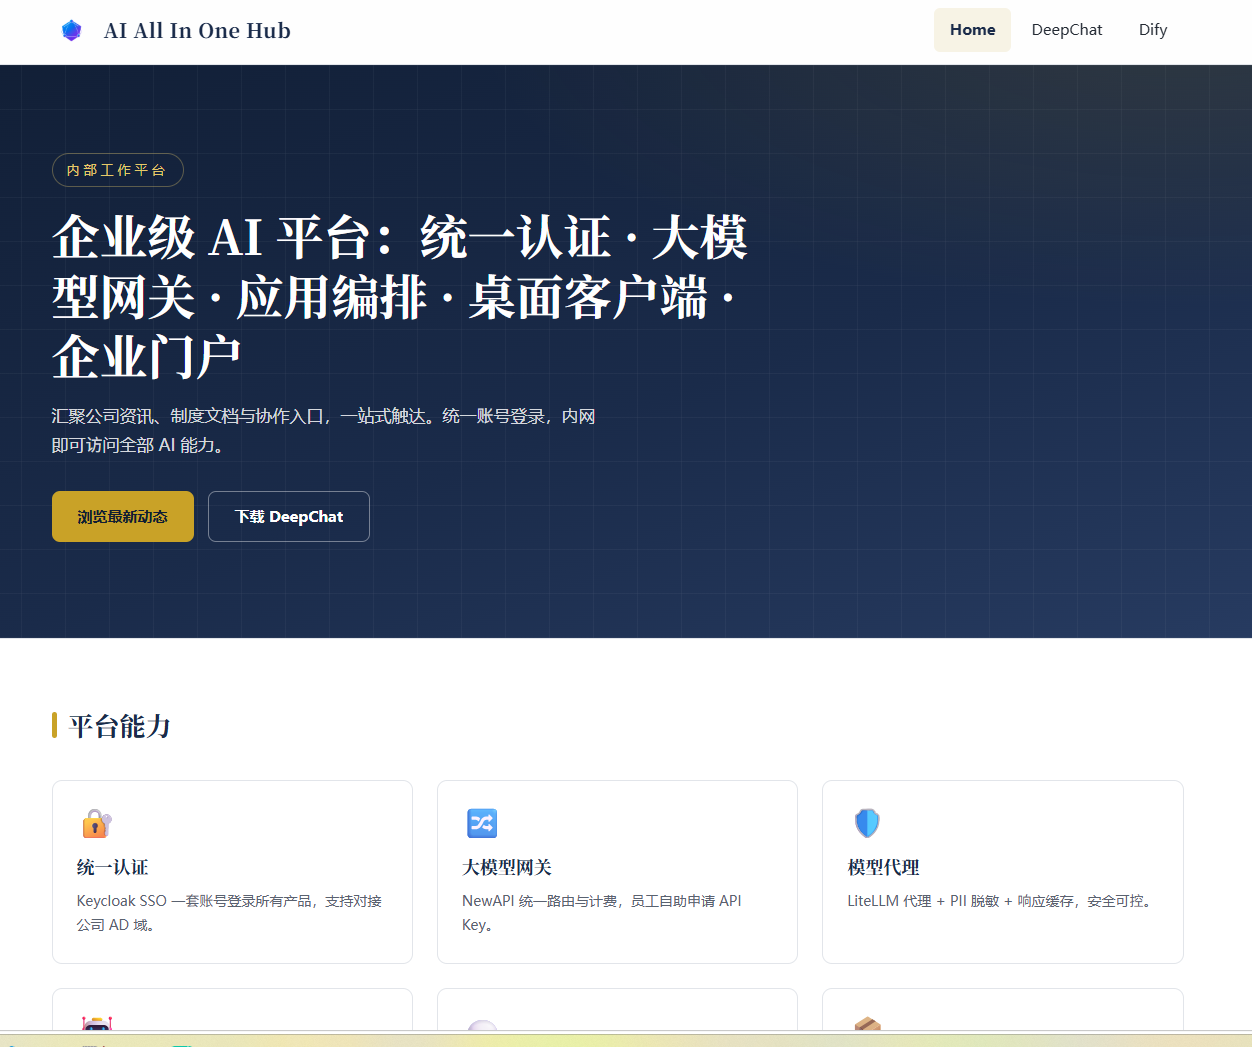
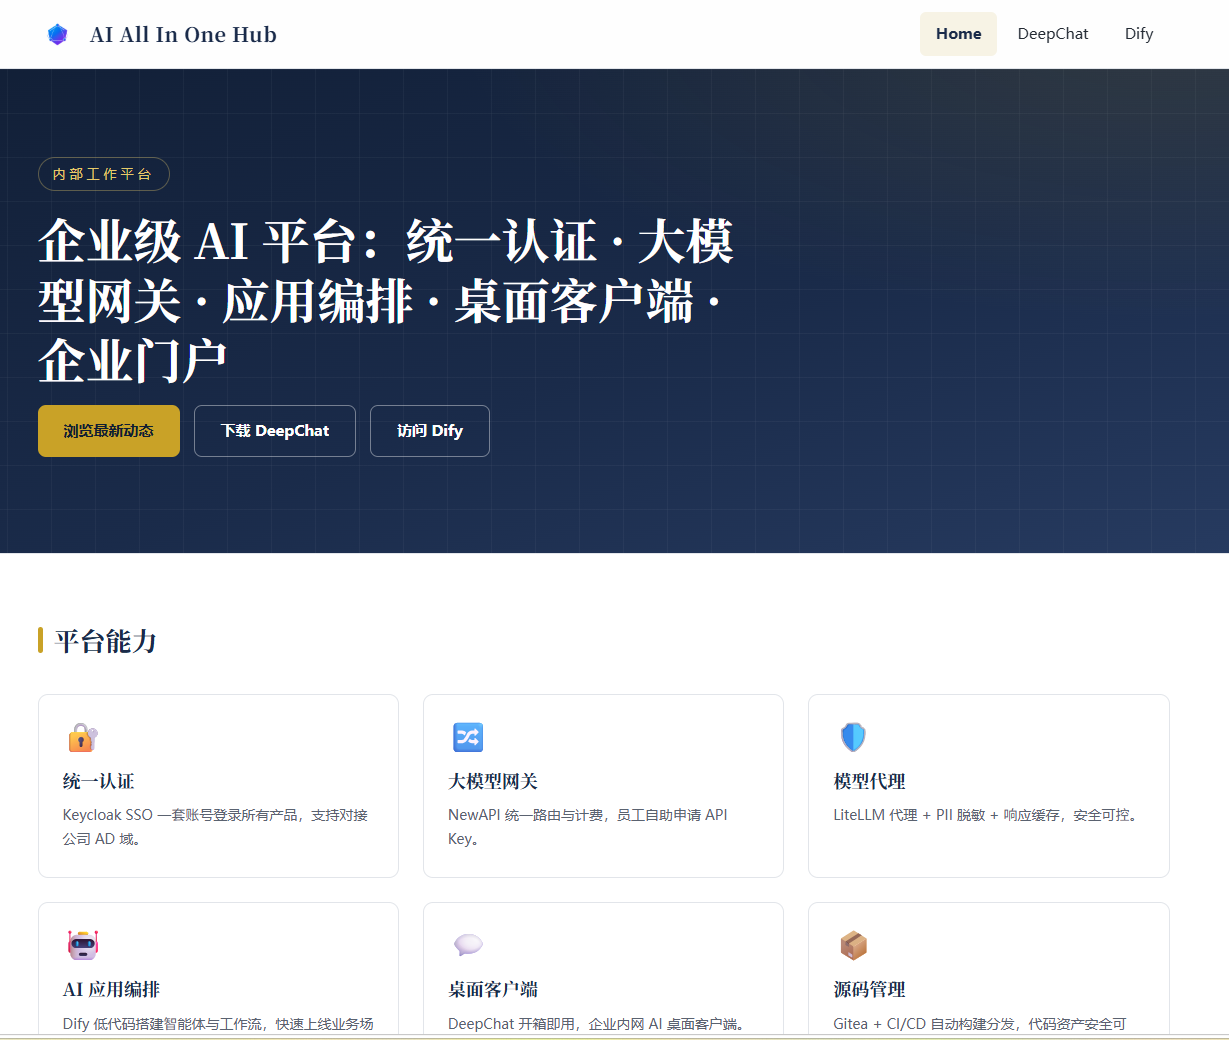
feat: v0.7 - Ghost portal theme v2 (news view toggle + pagination, DeepChat download hero), README clone URL, refreshed screenshot

diff --git a/windows/ghost-theme-corp-portal/assets/css/screen.css b/windows/ghost-theme-corp-portal/assets/css/screen.css
@@ -373,11 +373,109 @@ a:hover { color: var(--color-gold); }
 }
 
 /* ============================================================
+   文章工具栏（卡片/列表切换 + 分页）
+   ============================================================ */
+.posts-toolbar {
+    display: flex;
+    align-items: center;
+    gap: 16px;
+    flex-wrap: wrap;
+    margin-bottom: 22px;
+    padding-bottom: 14px;
+    border-bottom: 1px solid var(--color-line);
+}
+.posts-count { font-size: 13px; color: #7a8290; }
+.view-toggle {
+    display: inline-flex;
+    border: 1px solid var(--color-line);
+    border-radius: var(--radius-sm);
+    overflow: hidden;
+}
+.view-btn {
+    border: none;
+    background: transparent;
+    color: #5a6270;
+    padding: 7px 18px;
+    font-size: 13px;
+    cursor: pointer;
+    transition: background var(--transition), color var(--transition);
+}
+.view-btn.active {
+    background: var(--color-navy);
+    color: #fff;
+}
+.page-size {
+    margin-left: auto;
+    display: inline-flex;
+    align-items: center;
+    gap: 6px;
+    font-size: 13px;
+    color: #5a6270;
+}
+.page-size select {
+    background: var(--color-surface);
+    border: 1px solid var(--color-line);
+    border-radius: var(--radius-sm);
+    color: var(--color-navy);
+    padding: 5px 8px;
+    font-size: 13px;
+    cursor: pointer;
+}
+
+/* 列表模式 */
+.post-grid.list { display: block; }
+.post-grid.list .post-card {
+    margin-bottom: 14px;
+    box-shadow: none;
+}
+.post-grid.list .post-card:hover {
+    transform: none;
+    box-shadow: var(--shadow-sm);
+}
+.post-grid.list .post-card-link {
+    display: flex;
+    align-items: center;
+    gap: 20px;
+}
+.post-grid.list .post-card-media { display: none; }
+.post-grid.list .post-card-body { padding: 16px 22px; flex: 1; }
+.post-grid.list .post-card-title { font-size: 17px; margin-bottom: 4px; }
+.post-grid.list .post-card-excerpt { -webkit-line-clamp: 1; }
+
+/* 分页控件 */
+.posts-pagination {
+    display: flex;
+    align-items: center;
+    justify-content: center;
+    gap: 16px;
+    margin-top: 26px;
+}
+.pg-btn {
+    border: 1px solid var(--color-line);
+    background: var(--color-surface);
+    color: var(--color-navy);
+    padding: 8px 20px;
+    border-radius: var(--radius-sm);
+    font-size: 13px;
+    cursor: pointer;
+    transition: background var(--transition), color var(--transition), opacity var(--transition);
+}
+.pg-btn:disabled { opacity: .4; cursor: not-allowed; }
+.pg-btn:not(:disabled):hover { background: var(--color-navy); color: #fff; }
+.pg-info { font-size: 13px; color: #5a6270; }
+
+/* ============================================================
    文章详情页
    ============================================================ */
 .post { padding: 48px 0 24px; }
 
 .post-container { max-width: 900px; }
+
+/* DeepChat 下载页：与首页同宽 + 深色 hero 化 */
+.page-deepchat .post-container { max-width: var(--container); }
+.page-deepchat .post-header { display: none; }
+.page-deepchat .dc-hero { display: none !important; }
+.hero--page { padding: 72px 0 64px; }
 
 .post-header { margin-bottom: 32px; }
 

diff --git a/i18n/README.ja.md b/i18n/README.ja.md
@@ -86,7 +86,7 @@ OpenClaw / Microsoft Scout / WorkBuddy（または同等品）のいずれかを
 
 **4. プロジェクトをローカルにクローンまたはダウンロードする**
 ```bash
-git clone <リポジトリのURL> AIAllInOne
+git clone https://github.com/sdlyxianchao/AIAllInOne AIAllInOne
 # またはアーカイブをダウンロードして任意のローカルディレクトリに展開
 ```
 

diff --git a/i18n/README.zh-TW.md b/i18n/README.zh-TW.md
@@ -87,7 +87,7 @@ Harness 類工具（OpenClaw、Microsoft Scout、WorkBuddy 等）能讀取本專
 
 **4. Git clone 或下載本專案到本機**
 ```bash
-git clone <你的倉庫位址> AIAllInOne
+git clone https://github.com/sdlyxianchao/AIAllInOne AIAllInOne
 # 或下載壓縮包後解壓到本機任意目錄
 ```
 

diff --git a/i18n/README.zh.md b/i18n/README.zh.md
@@ -89,7 +89,7 @@ Harness 类工具（OpenClaw、Microsoft Scout、WorkBuddy 等）能读取本项
 
 **4. Git clone 或下载本项目到本地**
 ```bash
-git clone <你的仓库地址> AIAllInOne
+git clone https://github.com/sdlyxianchao/AIAllInOne AIAllInOne
 # 或下载压缩包后解压到本地任意目录
 ```
 

diff --git a/i18n/README.fr.md b/i18n/README.fr.md
@@ -86,7 +86,7 @@ C'est l'étape qui bloque le plus souvent :
 
 **4. Cloner ou télécharger le projet en local**
 ```bash
-git clone <url-de-votre-dépôt> AIAllInOne
+git clone https://github.com/sdlyxianchao/AIAllInOne AIAllInOne
 # ou téléchargez l'archive et extrayez-la dans n'importe quel dossier local
 ```
 

diff --git a/i18n/README.ar.md b/i18n/README.ar.md
@@ -86,7 +86,7 @@
 
 **4. استنساخ المستودع أو تنزيل المشروع محلياً**
 ```bash
-git clone <عنوان-مستودعك> AIAllInOne
+git clone https://github.com/sdlyxianchao/AIAllInOne AIAllInOne
 # أو نزّل الأرشيف وفكّ ضغطه في أي مجلد محلي
 ```
 

diff --git a/README.md b/README.md
@@ -96,7 +96,7 @@ This is the step that most often blocks people:
 
 **4. Git clone or download the project locally**
 ```bash
-git clone <your-repo-url> AIAllInOne
+git clone https://github.com/sdlyxianchao/AIAllInOne AIAllInOne
 # or download the archive and extract it to any local directory
 ```
 

diff --git a/i18n/README.es.md b/i18n/README.es.md
@@ -86,7 +86,7 @@ Este es el paso que más suele bloquear:
 
 **4. Clonar o descargar el proyecto localmente**
 ```bash
-git clone <url-de-tu-repositorio> AIAllInOne
+git clone https://github.com/sdlyxianchao/AIAllInOne AIAllInOne
 # o descarga el archivo y extráelo en cualquier carpeta local
 ```
 

diff --git a/i18n/README.pt.md b/i18n/README.pt.md
@@ -86,7 +86,7 @@ Esta é a etapa que mais costuma bloquear:
 
 **4. Clonar ou baixar o projeto localmente**
 ```bash
-git clone <url-do-seu-repositório> AIAllInOne
+git clone https://github.com/sdlyxianchao/AIAllInOne AIAllInOne
 # ou baixe o arquivo e extraia em qualquer pasta local
 ```
 
